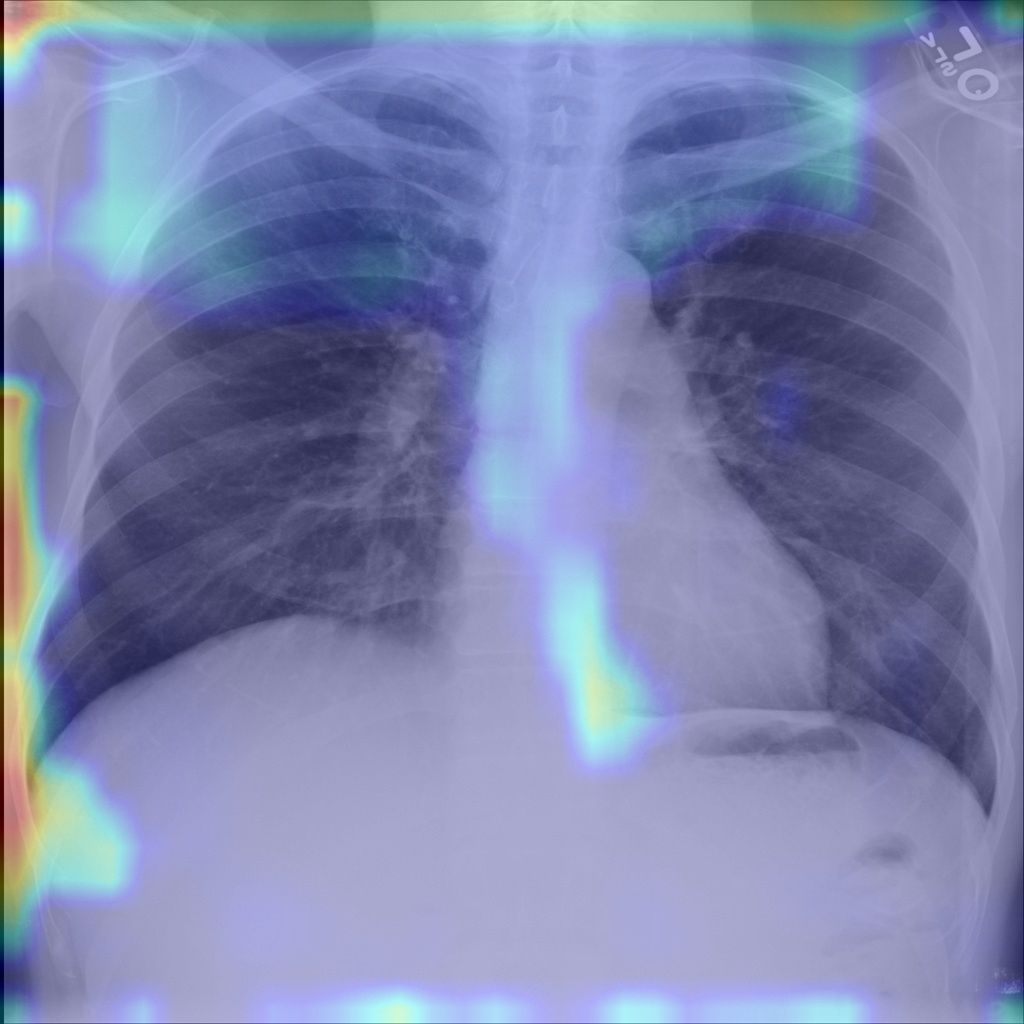
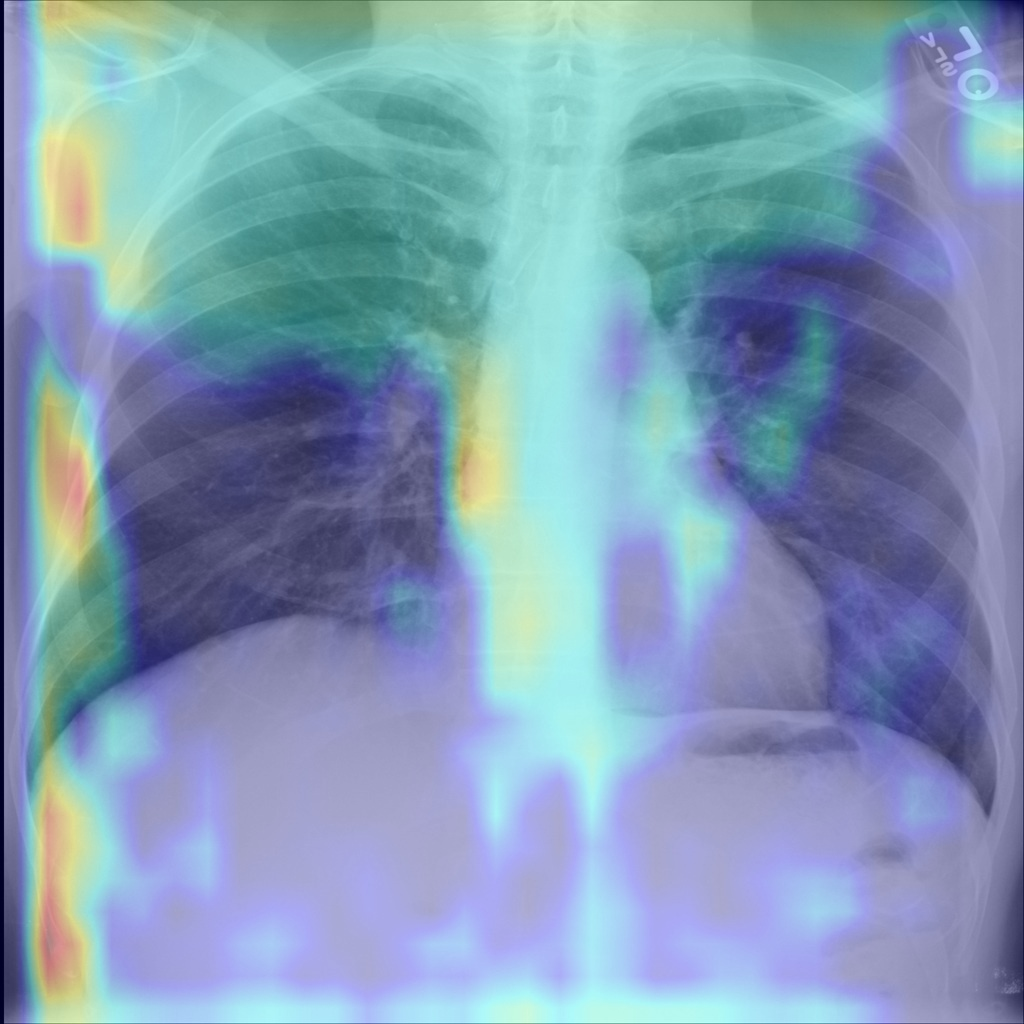
update project

diff --git a/project/resnet_train.py b/project/resnet_train.py
@@ -153,7 +153,7 @@ test_transforms = transforms.Compose([
 df = pd.read_csv('data/stage_2_train.csv')
 
 # Split the data into train and validation sets
-train_df, temp_df = train_test_split(df, test_size=0.4, random_state=42)
+train_df, temp_df = train_test_split(df, test_size=0.2, random_state=42)
 val_df, test_df = train_test_split(temp_df, test_size=0.5, random_state=42)
 
 # Create train and validation datasets and data loaders
@@ -161,16 +161,18 @@ train_dataset = PneumothoraxDataset(train_df, transform=train_transforms)
 val_dataset = PneumothoraxDataset(val_df, transform=val_transforms)
 test_dataset = PneumothoraxDataset(test_df, transform=test_transforms)
 
-train_loader = DataLoader(train_dataset, batch_size=64, shuffle=True, num_workers=4)
-val_loader = DataLoader(val_dataset, batch_size=64, shuffle=True, num_workers=4)
-test_loader = DataLoader(test_dataset, batch_size=64, shuffle=True, num_workers=4)
+train_loader = DataLoader(train_dataset, batch_size=12, shuffle=True, num_workers=4)
+val_loader = DataLoader(val_dataset, batch_size=12, shuffle=True, num_workers=4)
+test_loader = DataLoader(test_dataset, batch_size=12, shuffle=True, num_workers=4)
 
-model = models.vgg16(pretrained=True)
+model = torch.hub.load('pytorch/vision:v0.10.0', 'resnet34', pretrained=True)
+num_ftrs = model.fc.in_features
+model.fc = nn.Linear(num_ftrs, 1)
 # CE
 # num_features = model.classifier[6].in_features 
 # model.classifier[6] = nn.Linear(num_features, 2)
 # BCE
-model.classifier[-1] = nn.Linear(in_features=4096, out_features=1, bias=True)
+#model.classifier[-1] = nn.Linear(in_features=4096, out_features=1, bias=True)
 #model.classifier[-2] = nn.ReLU(inplace=False) # Add ReLU activation after the new linear layer
 
 device = torch.device('cuda' if torch.cuda.is_available() else 'cpu')
@@ -184,15 +186,14 @@ criterion = nn.BCEWithLogitsLoss()
 #criterion = nn.BCELoss()
 #criterion = FocalLoss(2)
 #optimizer = optim.SGD(model.parameters(), lr=0.0001, momentum=0.9)
-#optimizer = optim.Adam(model.parameters(), lr=1e-5, weight_decay=1e-3)
 optimizer = optim.Adam(model.parameters(), lr=0.0001)
 scheduler = ReduceLROnPlateau(optimizer, 'max', factor=0.1, patience=3)
 
-writer = SummaryWriter('runs/pneumothorax_experiment_VGG16_12_epoch50_Adam_BCELoss_scheduler')
+writer = SummaryWriter('runs/pneumothorax_experiment_Resnet34_1_epoch25_Adam_BCELoss')
 
 
 print("Starting training...")
-num_epochs = 50
+num_epochs = 25
 
 for epoch in range(num_epochs):
     model.train()
@@ -244,7 +245,7 @@ for epoch in range(num_epochs):
     writer.add_scalars("Loss", {"Train": train_loss, "Validation": val_loss}, epoch)
 
 # Save the model
-torch.save(model.state_dict(), f"models/pneumothorax_experiment_VGG16_12_epoch50_Adam_BCELoss_scheduler{epoch + 1}.pth")
+torch.save(model.state_dict(), f"models/pneumothorax_experiment_Resnet34_1_epoch25_Adam_BCELoss{epoch + 1}.pth")
 
 # Test loop
 model.eval()

diff --git a/project/cam_resnet.py b/project/cam_resnet.py
@@ -9,7 +9,6 @@ import torch.nn as nn
 from PIL import Image
 from skimage import exposure
 # 图片预处理
-
 def adapthist_equalize(img):
     img = np.array(img) # Convert PIL image to numpy array
     img = exposure.equalize_adapthist(img/np.max(img)) # Apply histogram equalization
@@ -30,6 +29,7 @@ def img_preprocess(img_in):
     img = transform(img)
     img = img.unsqueeze(0)					# 3
     return img
+
 
 # 定义获取梯度的函数
 def backward_hook(module, grad_in, grad_out):
@@ -54,7 +54,7 @@ def cam_show_img(img, feature_map, grads, out_dir):
     heatmap = cv2.applyColorMap(np.uint8(255 * cam), cv2.COLORMAP_JET)
     print("heatmap.shape: ", heatmap.shape)
     cam_img = 0.3 * heatmap + 0.7 * img
-    path_cam_img = os.path.join(out_dir, "cam_SGD_BCE_loss_epoch_50_test.jpg")
+    path_cam_img = os.path.join(out_dir, "cam_resnet34_adam_BCE_loss_epoch_25.jpg")
     cv2.imwrite(path_cam_img, cam_img)
 
 if __name__ == '__main__':
@@ -82,20 +82,23 @@ if __name__ == '__main__':
     img_input = img_preprocess(img)
 
     # 加载 squeezenet1_1 预训练模型
-    net = models.vgg16(pretrained=True)
-    num_features = net.classifier[6].in_features
-    #net.classifier[6] = nn.Linear(num_features, 2)
-    net.classifier[-1] = nn.Linear(in_features=4096, out_features=1, bias=True)
-    net.classifier[-2] = nn.ReLU(inplace=False) # Add ReLU activation after the new linear layer
+    # net = models.vgg16(pretrained=True)
+    # num_features = net.classifier[6].in_features
+    # #net.classifier[6] = nn.Linear(num_features, 2)
+    # net.classifier[-1] = nn.Linear(in_features=4096, out_features=1, bias=True)
+    # net.classifier[-2] = nn.ReLU(inplace=False) # Add ReLU activation after the new linear layer
+    net = torch.hub.load('pytorch/vision:v0.10.0', 'resnet34', pretrained=True)
+    num_ftrs = net.fc.in_features
+    net.fc = nn.Linear(num_ftrs, 1)
     #pthfile = 'models/pneumothorax_experiment_VGG16_8_grad_cam_L2_1e-3_epoch20_20.pth'
-    pthfile = '/home/ziruiqiu/comp691_DL/project/models/pneumothorax_experiment_VGG16_11_epoch50_SGD_BCE50.pth' #BCE
+    pthfile = '/home/ziruiqiu/comp691_DL/project/models/pneumothorax_experiment_Resnet34_1_epoch25_Adam_BCELoss25.pth' #BCE
     net.load_state_dict(torch.load(pthfile))
     net.eval()														# 8
     print(net)
 
     # 注册hook
-    net.features[-1].register_forward_hook(farward_hook)	# 9
-    net.features[-1].register_backward_hook(backward_hook)
+    net._modules.get('layer4').register_forward_hook(farward_hook)	# 9
+    net._modules.get('layer4').register_backward_hook(backward_hook)
 
     # forward
     print("input:", img_input.shape)
